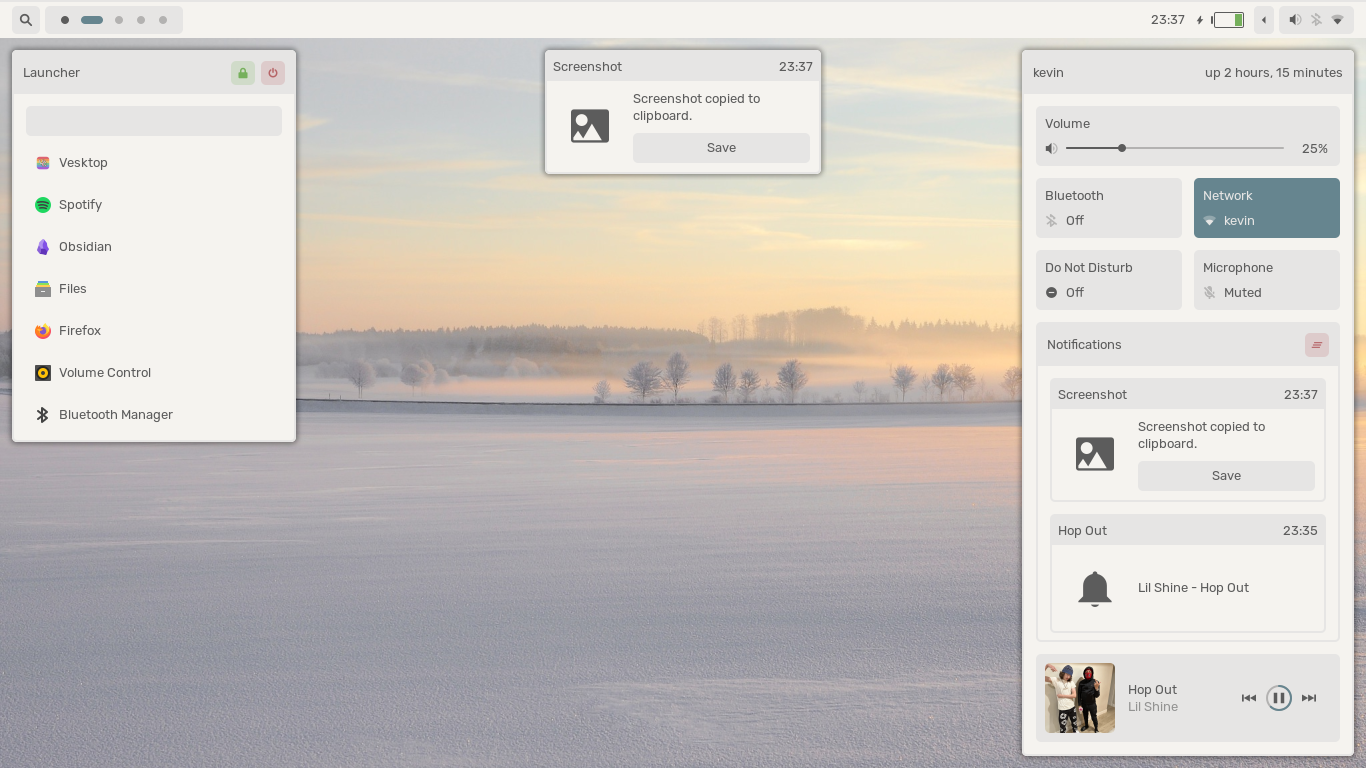
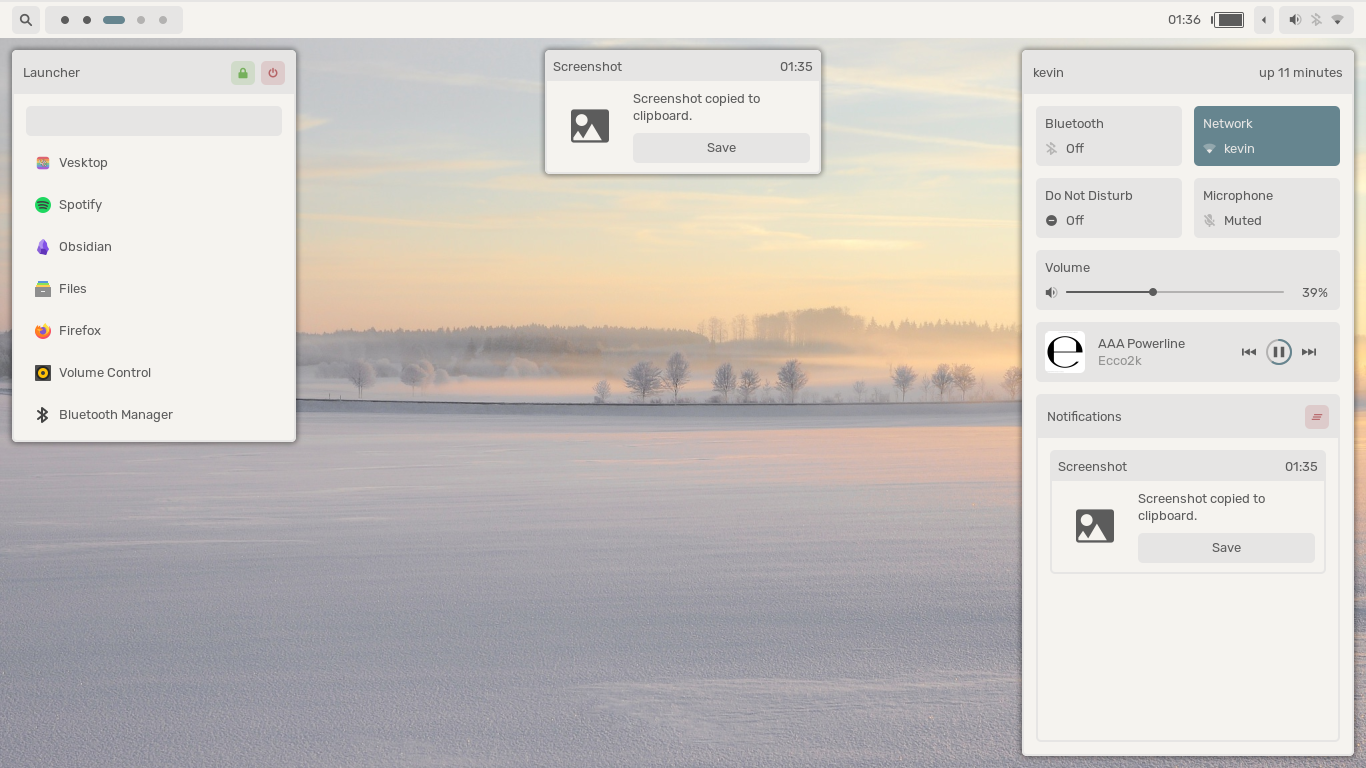
layout

diff --git a/src/widget/notifs/NotifWidget.tsx b/src/widget/notifs/NotifWidget.tsx
@@ -23,7 +23,6 @@ function NotifIcon(notif: AstalNotifd.Notification) {
 const time = (time: number, format = "%H:%M") =>
   GLib.DateTime.new_from_unix_local(time).format(format)!;
 
-
 type Props = {
   setup(self: Gtk.EventBox): void;
   transition: number;
@@ -75,22 +74,23 @@ export function NotifWidget(notifWidgetProps: Props) {
     ></centerbox>
   );
 
-  const Actions =
-    notif.get_actions().length > 0 ? (
-      <box className={"actions"} spacing={8}>
-        {notif.get_actions().map((a) => (
-          <button
-            heightRequest={30}
-            className={"action-button"}
-            hexpand={true}
-            onClicked={() => {
-              notif.invoke(a.id);
-            }}
-            child={<label label={a.label} />}
-          ></button>
-        ))}
-      </box>
-    ) : null;
+  const Actions = notif.get_actions().length > 0 && (
+    <box className={"actions"} spacing={8}>
+      {notif.get_actions().map((action) => (
+        <button
+          heightRequest={30}
+          className={"action-button"}
+          hexpand={true}
+          onClicked={() => {
+            notif.invoke(action.id);
+          }}
+          cursor={"pointer"}
+        >
+          <label label={action.label} />
+        </button>
+      ))}
+    </box>
+  );
 
   const NotifInner = (
     <eventbox setup={setup} onClick={() => notif.dismiss()}>

diff --git a/scss/panel.scss b/scss/panel.scss
@@ -79,16 +79,16 @@ window#panel {
           background-position: center;
           background-repeat: no-repeat;
           background-size: cover;
-          min-width: 70px;
-          min-height: 70px;
+          min-width: 40px;
+          min-height: 40px;
           border-radius: 5px;
           margin-right: 1em;
         }
 
         .music-icon {
           background: $base02;
-          min-width: 70px;
-          min-height: 70px;
+          min-width: 40px;
+          min-height: 40px;
           border-radius: 5px;
           margin-right: 1em;
           color: $base05;

diff --git a/src/widget/panel/index.tsx b/src/widget/panel/index.tsx
@@ -44,10 +44,10 @@ export default function Panel() {
           endWidget={<Uptime />}
         />
         <box spacing={12} className={"pb-lower"} vertical>
-          <Speaker />
           {Toggles}
-          <NotifCentre />
+          <Speaker />
           <Media />
+          <NotifCentre />
         </box>
       </box>
     </PopupWindow>

diff --git a/src/widget/panel/components/Media.tsx b/src/widget/panel/components/Media.tsx
@@ -14,7 +14,7 @@ function Player({ player }: { player: Mpris.Player | null }) {
     : "...";
 
   return (
-    <box className={"media-player"} hexpand>
+    <box className={"media-player"} hexpand heightRequest={60}>
       {player ? (
         <box
           className={"cover-art"}
